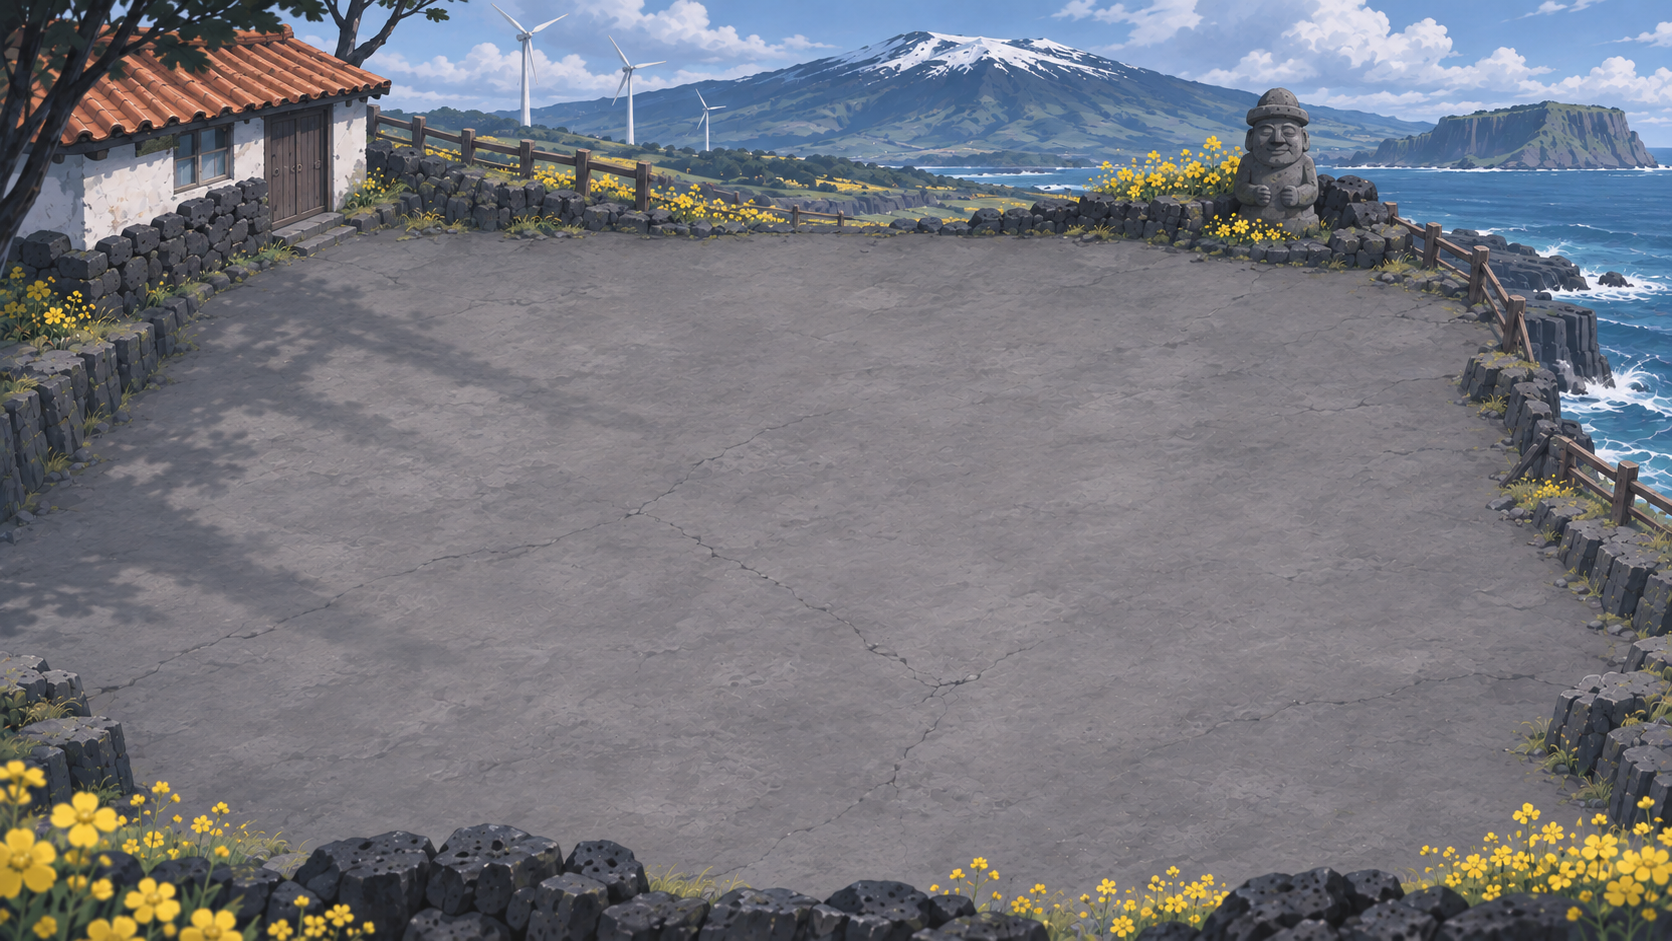
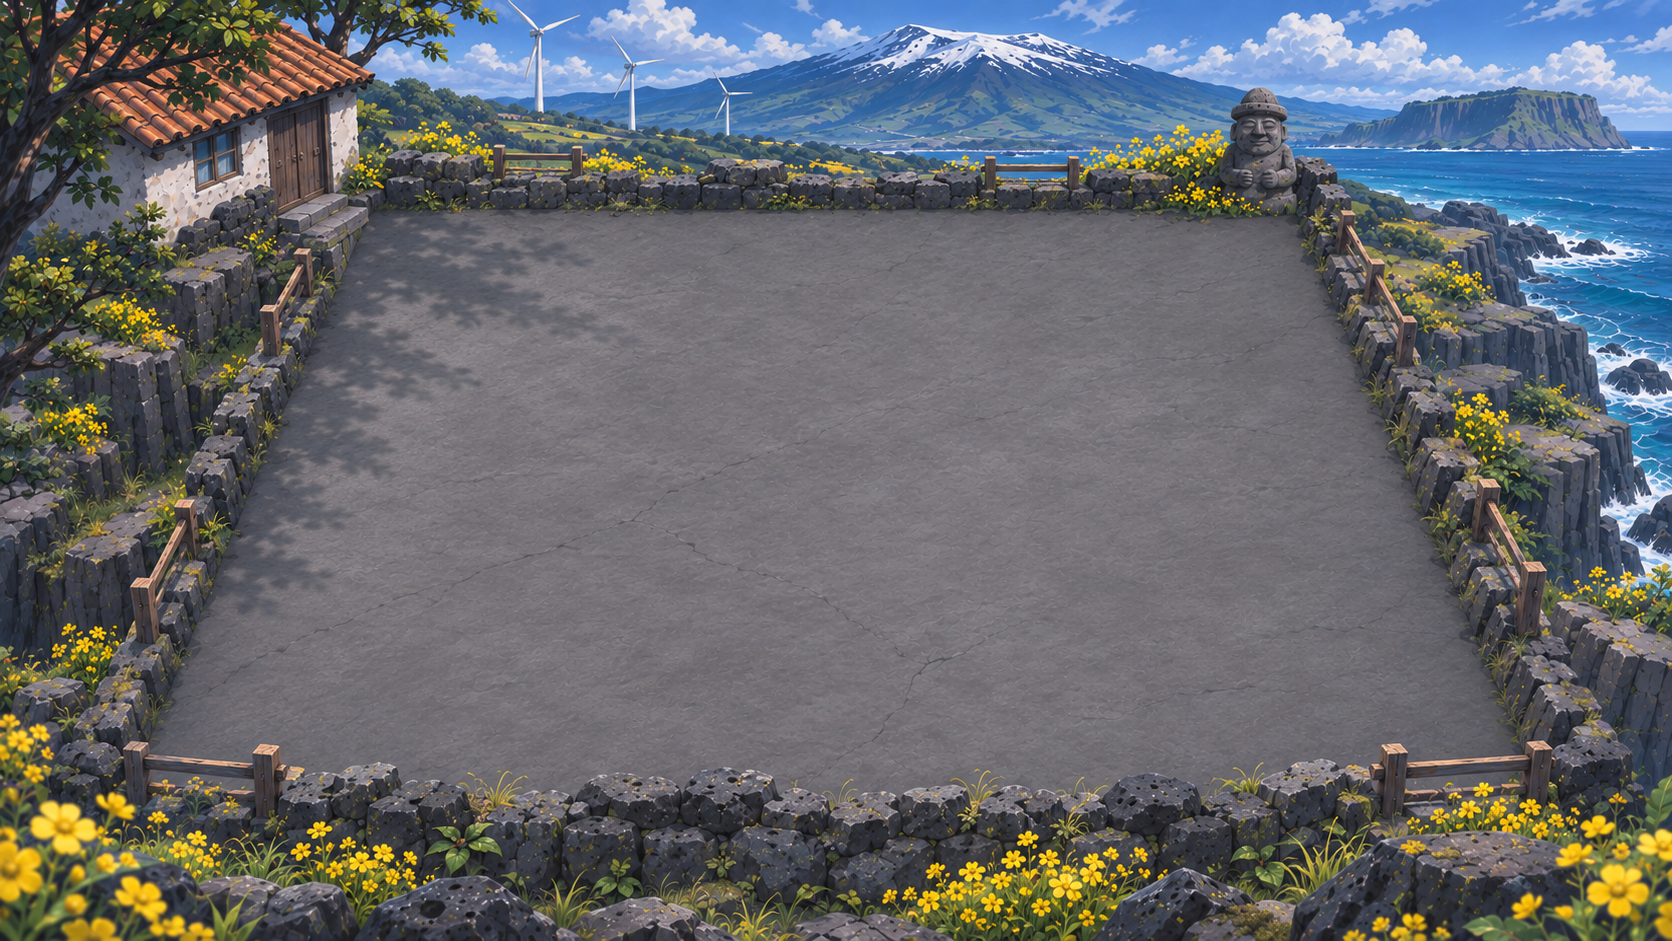
fix(chapter2): frame the battlefield with coastal scenery

diff --git a/Human/StarterContent/terrain/chapter02_battlefield_v6.prompt.md b/Human/StarterContent/terrain/chapter02_battlefield_v6.prompt.md
@@ -1,0 +1,4 @@
+Tool: built-in ImageGen
+References: chapter02_battlefield_v5.png; content/scenes/scene_0101B/level_preview.png at f58fb60.
+
+Edit image 1, the Jeju background plate. Image 2, Chapter 1 gameplay, is solely the spatial composition reference. Preserve Jeju art style, cottage, dol hareubang, distant Hallasan, turbines and coast. Rebuild the environment immediately around a compact trapezoidal tactical board footprint, using the space outside it for visible three-dimensional scenery on all four sides, like image 2. Coordinates as percent of entire 16:9 canvas: clear low-contrast uninterrupted flat slate center trapezoid with rear corners at (17,18) and (83,18), front corners at (9,80) and (91,80). Draw a low basalt retaining wall and interrupted fence tracking that polygon just OUTSIDE it: upper wall across behind the board at y 15–18%, left and right walls converge towards rear, front wall across the frame at y 81–89%, with yellow canola patches spilling toward camera. Left and right edges outside the courtyard show rocky terraces and descending cliffs. Bring stone and vegetation inward to that boundary, especially at the bottom and both sides. Keep the distant mountain and sea above and outside the retaining wall, as seen from a steep overhead camera similar to reference 2. The four sides should visually enclose the empty central tapered courtyard, with no broad surplus ring of paving. Render background plate only; no game board, tile grid, units, UI, or text. Landscape 16:9.
